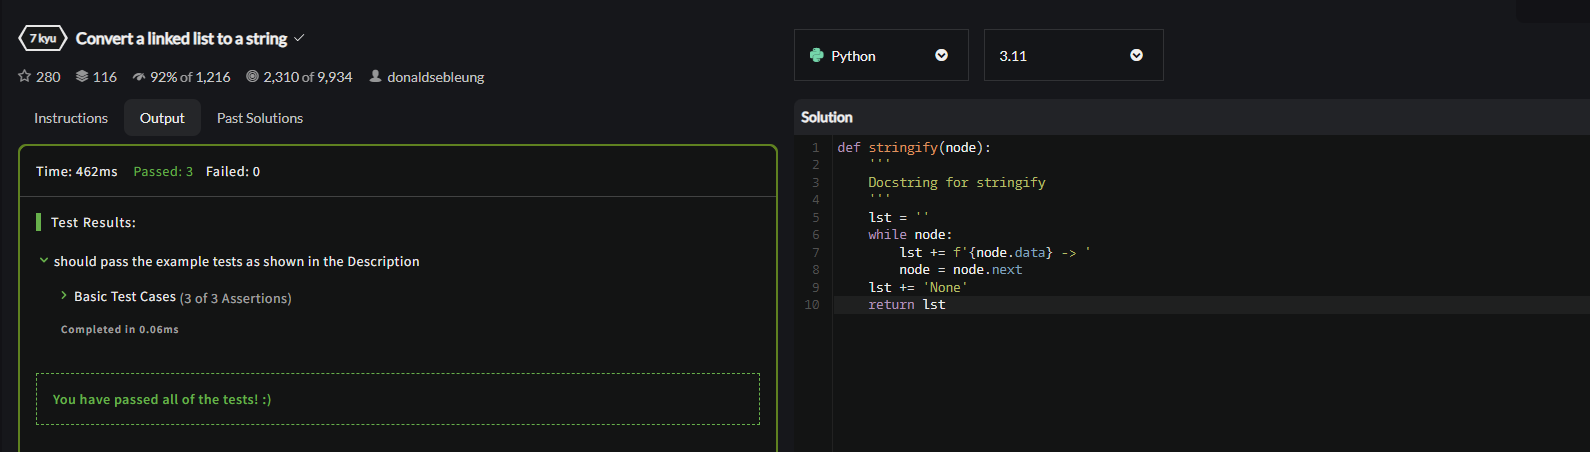
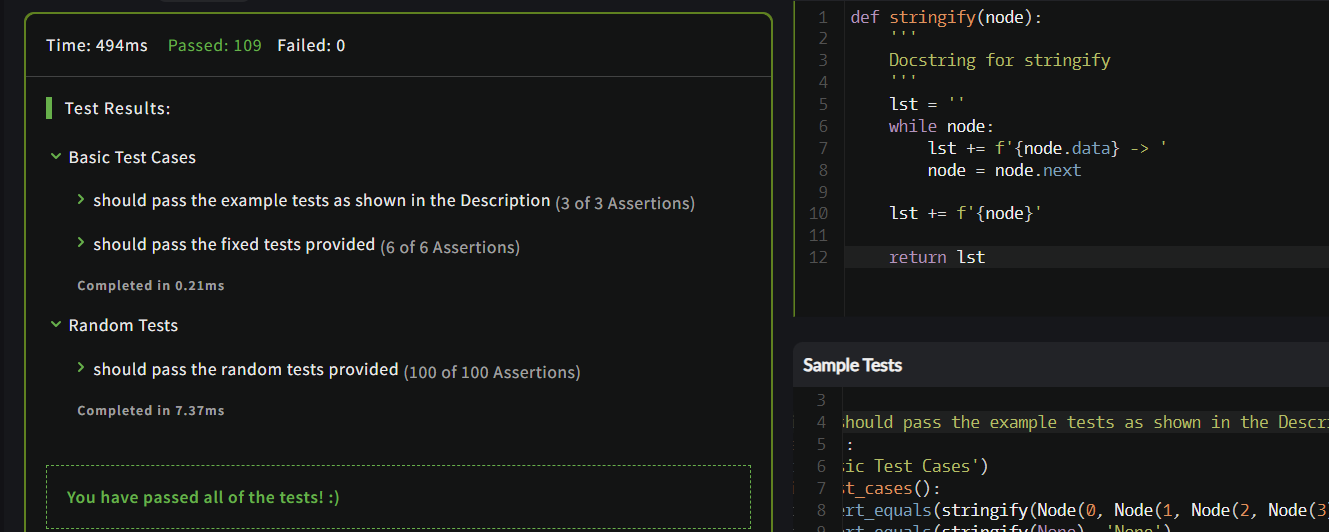
second problem passed, + photo for the first one

diff --git a/_2_Parse_a_linked_list_from_a-string/solution.py b/_2_Parse_a_linked_list_from_a-string/solution.py
@@ -1,0 +1,33 @@
+'''
+Docstring for _2_Parse_a_linked_list_from_a-string.solution
+'''
+class Node():
+    '''
+    Docstring for Node
+    '''
+    def __init__(self, data, next = None):
+        self.data = data
+        self.next = next
+
+def linked_list_from_string(list_repr: str) -> Node | None:
+    """ 1 -> 2 -> 3 -> None
+    """
+
+    list_repr = list_repr.split(' -> ')[:-1]
+
+
+    head = Node(0)
+    probe = head
+
+    for el in list_repr:
+        probe.next = Node(int(el))
+
+        probe = probe.next
+
+    return head.next
+
+
+
+# Node(1, Node(2, Node(3)))
+
+# print(linked_list_from_string('1 -> 2 -> 3 -> None'))
